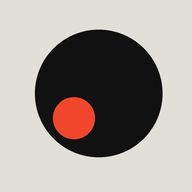
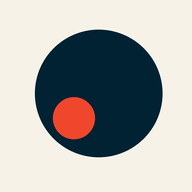
Новая палитра: Cheviot, Grape Mist, Midnight Dreams, Neptune's Wrath, Isotonic Water, Pacific Panorama
Claude-Session: https://claude.ai/code/session_011osDsojyUSFgdxcnJrCNCr

diff --git a/index.html b/index.html
@@ -3,7 +3,7 @@
 <head>
 <meta charset="utf-8">
 <meta name="viewport" content="width=device-width,initial-scale=1,viewport-fit=cover">
-<meta name="theme-color" content="#E2DFD9">
+<meta name="theme-color" content="#F6F2E8">
 <meta name="apple-mobile-web-app-capable" content="yes">
 <meta name="mobile-web-app-capable" content="yes">
 <meta name="apple-mobile-web-app-title" content="woisee">
@@ -35,9 +35,9 @@ button,.item,.row{touch-action:manipulation;-webkit-user-select:none;user-select
 /* Layout: Swiss-style single column on warm grey paper. Huge numerals as heroes, hairline rules, a stack of colored block cards, a floating black capsule for nav and for the timer.
    Deliberately one light visual world, like the references. */
 :root{
-  --paper:#E2DFD9; --paper-2:#ECEAE5; --ink:#111111; --muted:#6F6A63; --rule:rgba(17,17,17,.16); --soft:#CBC6BE;
-  --signal:#F0472C; --lime:#DDF98C;
-  --c-body:#A8C4B4; --c-breath:#D2B48C; --c-phon:#EBE57C; --c-artic:#EF5A3C; --c-stage:#BEBAB3;
+  /* palette: Cheviot, Grape Mist, Midnight Dreams, Neptune's Wrath, Isotonic Water, Pacific Panorama + signal red */
+  --paper:#F6F2E8; --paper-2:#FDFBF6; --ink:#002233; --muted:#56687A; --rule:rgba(0,34,51,.16); --soft:#C5C0C9;
+  --signal:#F0472C; --lime:#DDFF55; --deep:#11425D; --sky:#C0D6EA;
   --f:"Inter Tight","Helvetica Neue",Helvetica,Arial,system-ui,sans-serif;
   color-scheme:light;
 }
@@ -49,7 +49,9 @@ button:focus-visible{outline:2px solid var(--signal);outline-offset:2px;border-r
 h1,h2,h3,h4{margin:0;text-wrap:balance;font-weight:800;letter-spacing:-.03em}
 p{margin:0}
 .num{font-variant-numeric:tabular-nums}
-.b-body{--c:var(--c-body)} .b-breath{--c:var(--c-breath)} .b-phon{--c:var(--c-phon)} .b-artic{--c:var(--c-artic)} .b-stage{--c:var(--c-stage)}
+.b-body,.b-breath,.b-phon,.b-stage{--cf:var(--ink);--cl:rgba(0,34,51,.2);--cbox:rgba(253,251,246,.6);--ca:var(--ink)}
+.b-body{--c:var(--sky);--cai:var(--sky)} .b-breath{--c:var(--soft);--cai:var(--soft)} .b-phon{--c:var(--lime);--cai:var(--lime)} .b-stage{--c:#DDD7CB;--cai:#DDD7CB}
+.b-artic{--c:var(--deep);--cf:var(--paper);--cl:rgba(246,242,232,.22);--cbox:rgba(246,242,232,.14);--ca:var(--lime);--cai:var(--deep)}
 
 .app{max-width:520px;margin:0 auto;padding-left:max(18px,env(safe-area-inset-left,0px));padding-right:max(18px,env(safe-area-inset-right,0px));padding-block:18px calc(110px + env(safe-area-inset-bottom,0px));display:flex;flex-direction:column;gap:26px}
 .top{display:flex;justify-content:space-between;align-items:center;gap:12px}
@@ -60,7 +62,7 @@ p{margin:0}
 .rule{border:0;border-top:1px solid var(--rule);margin:0}
 .lnk{font-weight:600;text-decoration:underline;text-underline-offset:3px;text-decoration-thickness:1px}
 .note{font-size:14px;color:var(--muted)}
-.pill{display:inline-flex;align-items:center;gap:6px;border:1px solid var(--ink);border-radius:99px;padding:3px 11px;font-size:13px;font-weight:500}
+.pill{display:inline-flex;align-items:center;gap:6px;border:1px solid currentColor;border-radius:99px;padding:3px 11px;font-size:13px;font-weight:500}
 .redpill{display:inline-block;background:var(--signal);color:var(--paper-2);border-radius:99px;padding:2px 10px;font-size:11px;font-weight:600;letter-spacing:.04em;text-transform:uppercase;white-space:nowrap}
 
 /* choose */
@@ -92,7 +94,7 @@ p{margin:0}
 
 /* stack of block cards */
 .stack{display:flex;flex-direction:column}
-.blk{background:var(--c);border-radius:30px;padding:20px 20px 46px;margin-top:-28px;box-shadow:0 -1px 0 rgba(17,17,17,.06)}
+.blk{background:var(--c);color:var(--cf);border-radius:30px;padding:20px 20px 46px;margin-top:-28px;box-shadow:0 -1px 0 rgba(0,34,51,.08)}
 .blk:first-child{margin-top:0}
 .blk:last-child{padding-bottom:20px}
 .blk header{display:grid;grid-template-columns:1fr auto;align-items:start;gap:12px}
@@ -101,16 +103,16 @@ p{margin:0}
 .blk .sub{font-size:14px;opacity:.75;margin-top:6px}
 .blk .cnt{font-weight:300;font-size:44px;line-height:.9;letter-spacing:-.05em}
 .blk .cnt small{font-size:18px}
-.blk ul{list-style:none;margin:16px 0 0;padding:0;border-top:1px solid rgba(17,17,17,.25)}
-.blk .row{display:grid;grid-template-columns:1fr auto 30px;gap:12px;align-items:center;width:100%;padding:13px 0;border-bottom:1px solid rgba(17,17,17,.25)}
+.blk ul{list-style:none;margin:16px 0 0;padding:0;border-top:1px solid var(--cl)}
+.blk .row{display:grid;grid-template-columns:1fr auto 30px;gap:12px;align-items:center;width:100%;padding:13px 0;border-bottom:1px solid var(--cl)}
 .blk li:last-child .row{border-bottom:0}
 .blk .row .t{font-size:17px;font-weight:500;line-height:1.25;min-width:0}
 .blk .row .d{font-size:14px;opacity:.7}
-.box{width:28px;height:28px;border-radius:9px;background:rgba(255,255,255,.45);display:flex;align-items:center;justify-content:center}
+.box{width:28px;height:28px;border-radius:9px;background:var(--cbox);display:flex;align-items:center;justify-content:center}
 .box svg{width:18px;height:18px}
-.row.dn .box{background:var(--ink);color:var(--c)}
+.row.dn .box{background:var(--ca);color:var(--cai)}
 .row.dn .t{text-decoration:line-through;text-decoration-thickness:1px;opacity:.6}
-.row.cur .box{background:var(--ink);color:var(--paper-2);border-radius:50%}
+.row.cur .box{background:var(--ca);color:var(--cai);border-radius:50%}
 .row.cur .t{font-weight:700}
 .donecard{background:var(--lime);border-radius:30px;padding:22px 20px;display:flex;flex-direction:column;gap:14px}
 .donecard h3{font-size:32px;line-height:1}
@@ -174,15 +176,15 @@ p{margin:0}
 
 /* exercise screen */
 .ex{position:fixed;inset:0;z-index:20;background:var(--paper);overflow-y:auto;-webkit-overflow-scrolling:touch}
-.ex-head{background:var(--c);border-radius:0 0 34px 34px}
+.ex-head{background:var(--c);color:var(--cf);border-radius:0 0 34px 34px}
 .ex-head .in,.ex-body{max-width:520px;margin:0 auto;padding-left:max(18px,env(safe-area-inset-left,0px));padding-right:max(18px,env(safe-area-inset-right,0px))}
 .ex-head .in{padding-block:calc(env(safe-area-inset-top,0px) + 12px) 24px;display:flex;flex-direction:column;gap:16px}
 .ex-top{display:grid;grid-template-columns:40px 1fr auto;gap:14px;align-items:center}
-.icon-btn{width:40px;height:40px;border-radius:50%;background:rgba(255,255,255,.45);display:flex;align-items:center;justify-content:center}
+.icon-btn{width:40px;height:40px;border-radius:50%;background:var(--cbox);display:flex;align-items:center;justify-content:center}
 .icon-btn svg{width:20px;height:20px}
 .segs{display:flex;gap:2px;height:6px}
-.segs i{flex:1;background:rgba(17,17,17,.18);border-radius:1px}
-.segs i.dn{background:var(--ink)}
+.segs i{flex:1;background:var(--cl);border-radius:1px}
+.segs i.dn{background:var(--ca)}
 .segs i.cur{background:var(--paper-2)}
 .skip{font-size:14px;font-weight:600}
 .ex-title{font-size:clamp(34px,10vw,44px);line-height:.98}
@@ -234,7 +236,7 @@ p{margin:0}
 /* timer capsule */
 .tbar{position:fixed;left:0;right:0;bottom:calc(12px + env(safe-area-inset-bottom,0px));z-index:21;padding-left:max(18px,env(safe-area-inset-left,0px));padding-right:max(18px,env(safe-area-inset-right,0px))}
 .cap{position:relative;overflow:hidden;max-width:484px;margin:0 auto;background:var(--ink);color:var(--paper-2);border-radius:99px;padding:8px 8px 8px 26px;display:grid;grid-template-columns:1fr auto;align-items:center;gap:10px;box-shadow:0 10px 30px rgba(0,0,0,.2)}
-.cap .fill{position:absolute;left:0;top:0;bottom:0;width:0;background:#2C2C2C;transition:width .2s linear}
+.cap .fill{position:absolute;left:0;top:0;bottom:0;width:0;background:var(--deep);transition:width .2s linear}
 .cap .time,.cap .acts{position:relative}
 .cap .time{display:flex;flex-direction:column}
 .cap .time b{font-weight:300;font-size:34px;line-height:1;letter-spacing:-.04em;font-variant-numeric:tabular-nums}
@@ -242,7 +244,7 @@ p{margin:0}
 .cap .acts{display:flex;align-items:center;gap:8px}
 .go{width:68px;height:68px;border-radius:50%;background:var(--signal);color:var(--ink);font-weight:700;font-size:14px;display:flex;align-items:center;justify-content:center;text-align:center;line-height:1.05}
 .go.alt{background:var(--paper-2)}
-.chip{border:1px solid rgba(236,234,229,.4);border-radius:99px;padding:8px 12px;font-size:13px;font-weight:600;color:var(--paper-2)}
+.chip{border:1px solid rgba(246,242,232,.35);border-radius:99px;padding:8px 12px;font-size:13px;font-weight:600;color:var(--paper-2)}
 .cap.fin{background:var(--lime);color:var(--ink)}
 .cap.fin .fill{display:none}
 .cap.fin .time span{opacity:.7}
@@ -657,7 +659,7 @@ function widget(e){
       return `<div class="swatch" id="focusW"><div class="snds">${Object.keys(SOUNDS).map(s=>`<button class="snd" data-act="snd" data-v="${s}" aria-pressed="${ex.sw.sound===s}"><b>${SOUNDS[s]}</b><span class="num" id="best-${s}">${b[s]?'рекорд '+Math.round(b[s]):'нет замера'}</span></button>`).join('')}</div>
       <div class="sw-line"><div><div class="sw-num" id="swNum">0.0</div><span class="note" id="swLbl">секунд на [${SOUNDS[ex.sw.sound]}]</span></div><button class="sw-btn" data-act="sw" id="swBtn">Старт<br>выдоха</button></div>
       <p class="rec" id="swRec" hidden></p></div>`;}
-    case 'breath':return `<div class="pacer" id="focusW"><div class="wrap"><svg viewBox="0 0 200 200"><circle cx="100" cy="100" r="88" fill="none" stroke="rgba(17,17,17,.35)" stroke-width="1.5" stroke-dasharray="3 6"/><circle id="pcC" cx="100" cy="100" r="40" fill="var(--ink)"/></svg><div class="lbl"><b id="pcLbl">Готовы?</b><span id="pcNum"></span></div></div><p>Вдох 4 · задержка 4 · выдох 8 · задержка 4</p></div>`;
+    case 'breath':return `<div class="pacer" id="focusW"><div class="wrap"><svg viewBox="0 0 200 200"><circle cx="100" cy="100" r="88" fill="none" stroke="rgba(0,34,51,.4)" stroke-width="1.5" stroke-dasharray="3 6"/><circle id="pcC" cx="100" cy="100" r="40" fill="var(--ink)"/></svg><div class="lbl"><b id="pcLbl">Готовы?</b><span id="pcNum"></span></div></div><p>Вдох 4 · задержка 4 · выдох 8 · задержка 4</p></div>`;
     case 'intervals':return `<div class="phase" id="focusW"><div><b id="phLbl">Дышите</b><p class="note" style="color:var(--ink);margin-top:6px">30 работа · 15 отдых · 30 работа</p></div><span id="phNum">0:30</span></div>`;
     case 'twister':return `<div class="read" id="twText">${esc(TWISTERS[ex.tw])}</div><button class="ghost" data-act="tw">Другая скороговорка</button>`;
     case 'phrase':return `<div class="read" id="phText" style="text-align:center">${esc(PHRASES[ex.ph])}</div><ul class="listrows">${MOODS.map(m=>`<li><span>${m[0]}</span><span class="a">${m[1]}</span></li>`).join('')}</ul><button class="ghost" data-act="ph">Другая фраза</button>`;

diff --git a/sw.js b/sw.js
@@ -1,5 +1,5 @@
 // woisee offline cache. Bump VERSION after changing any file so phones pick up the update.
-const VERSION = 'woisee-v1';
+const VERSION = 'woisee-v2';
 const FILES = [
   './',
   './index.html',
